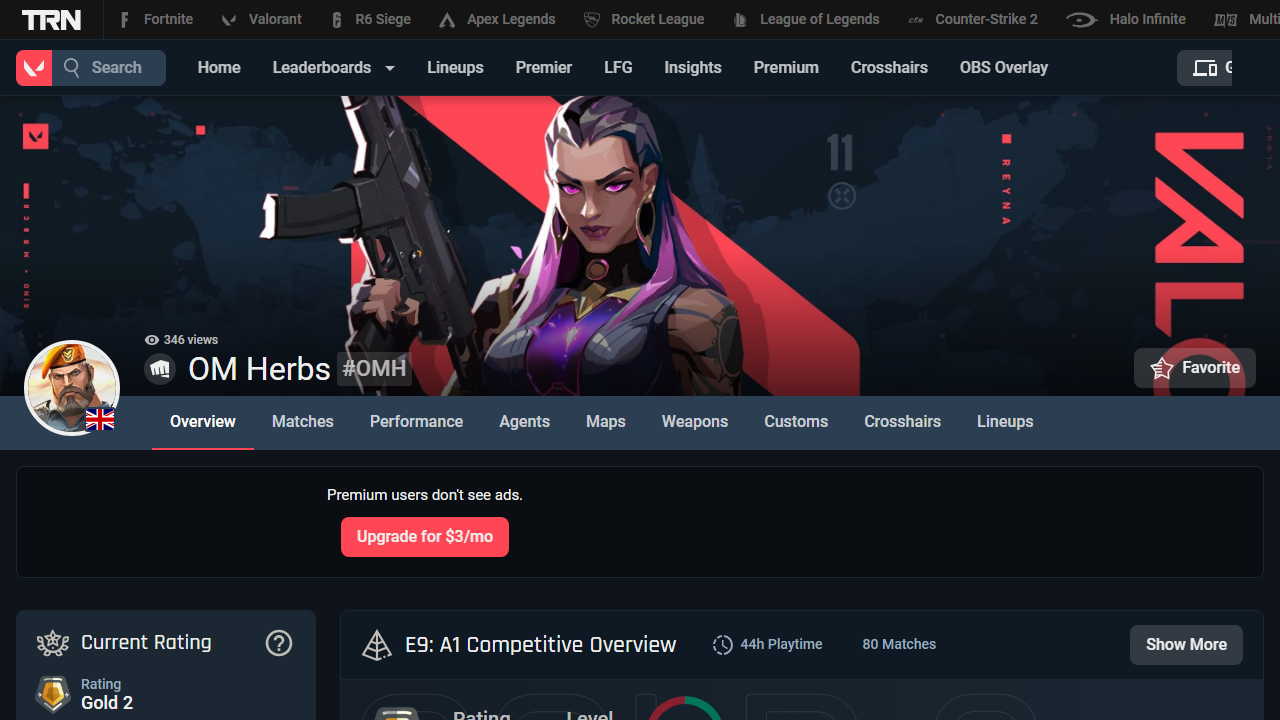
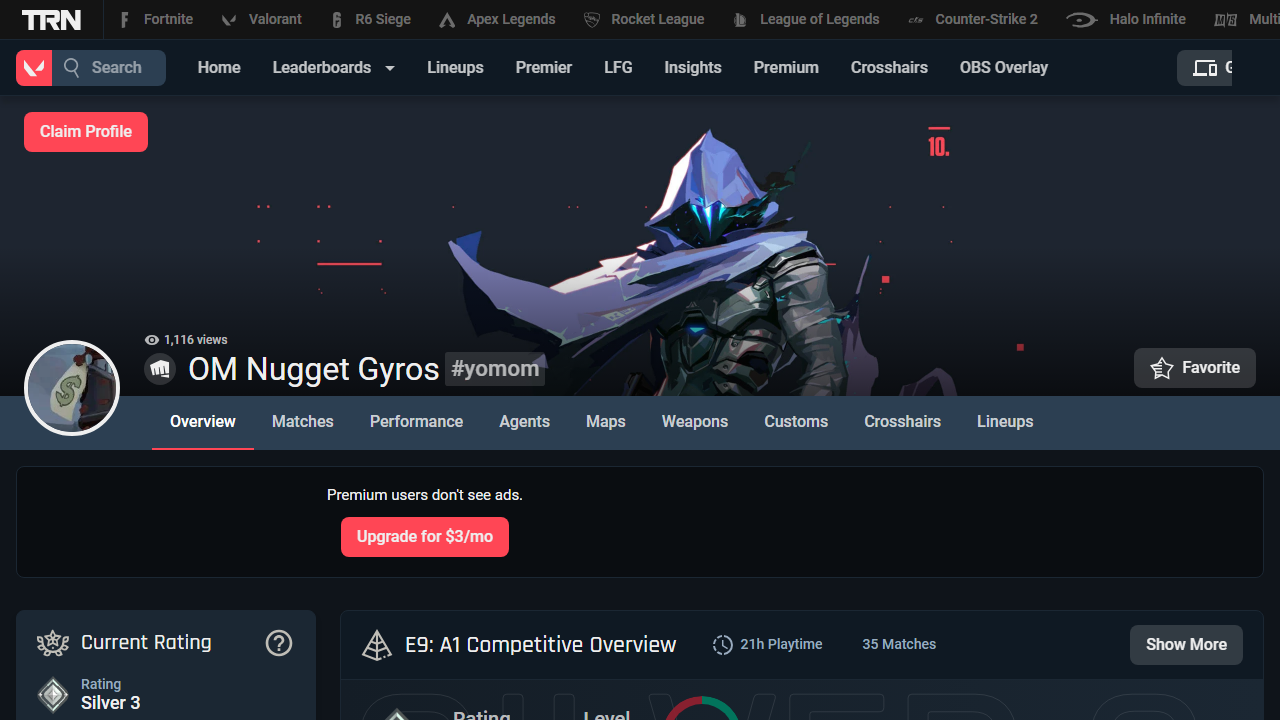
added 2 new commands (link and valstatsUser)

diff --git a/src/commands/tools/link.js b/src/commands/tools/link.js
@@ -1,0 +1,156 @@
+const { SlashCommandBuilder } = require("discord.js");
+const Config = require("../../schemas/config");
+const Link = require("../../schemas/link");
+const { MongoClient } = require("mongodb");
+const { databaseToken } = process.env;
+const mongoose = require("mongoose");
+const { chromium } = require("playwright-extra");
+const stealth = require("puppeteer-extra-plugin-stealth")();
+chromium.use(stealth);
+
+module.exports = {
+  data: new SlashCommandBuilder()
+    .setName("link")
+    .setDescription("Link your discord with your Valorant Account.")
+    .setDMPermission(false)
+    .addStringOption((option) =>
+      option
+        .setName("riotid")
+        .setDescription("Your Valorant name (Username#ID)")
+        .setRequired(true)
+    ),
+  async execute(interaction, client) {
+    const config = await Config.findOne({ guildID: interaction.guild.id });
+    if (!config) {
+      await interaction.reply({
+        content: `You haven't set up the proper channels yet! Do /config.`,
+      });
+      return;
+    }
+    if (config.botCommandsChannel) {
+      const channel = client.channels.cache.get(config.botCommandsChannel);
+      if (channel !== interaction.channel) {
+        await interaction.reply({
+          content: `You cannot use commands in this channel`,
+          ephemeral: true,
+        });
+        return;
+      }
+    }
+
+    await interaction.deferReply();
+
+    const linkedRole = interaction.guild.roles.cache.get('1277671443454230568');
+    const target = interaction.options.getString("riotid");
+    const targetInHex = target.replace(/#/g, "%23");
+    const trackerLink = `https://tracker.gg/valorant/profile/riot/${targetInHex}/overview`;
+    const mongoClient = new MongoClient(databaseToken);
+    let status;
+    let name;
+    let discriminator;
+    let nameNdiscrim;
+
+    const browser = await chromium.launch();
+    const page = await browser.newPage();
+    await page.goto(trackerLink);
+
+    await page.waitForTimeout(1000);
+
+    const elementExists = await page
+      .locator("css=li.multi-switch__item--selected span")
+      .nth(0)
+      .count();
+    let elements = await page.locator("css=span.font-light").count();
+
+    if (elements) {
+      elements = await page.locator("css=span.font-light").textContent();
+      if (elements.toLowerCase().includes("profile is private")) {
+        status = "private";
+        nameNdiscrim = elements.slice(0, -23);
+      } else {
+        console.log(elements);
+        return await interaction.editReply({
+          content: `An unknown error occurred (check terminal for more info). Please try again later.`,
+        });
+      }
+    } else if (elementExists) {
+      name = await page
+        .locator("css=span.trn-ign__username")
+        .first()
+        .textContent();
+      discriminator = await page
+        .locator("css=span.trn-ign__discriminator")
+        .first()
+        .textContent()
+        .then((d) => d.slice(1));
+      status = "public";
+    } else {
+      const error = await page.locator("h1").textContent();
+      if (error === "404") {
+        return await interaction.editReply({
+          content: `This player doesn't exist.`,
+          ephemeral: true,
+        });
+      } else {
+        console.log(error);
+        return await interaction.editReply({
+          content: `An unknown error occurred (check terminal for more info). Please try again later.`,
+        });
+      }
+    }
+    if (!nameNdiscrim) {
+      nameNdiscrim = name + discriminator;
+    }
+    //Saving to the DB
+    const existingLink = await Link.findOne({ userID: interaction.user.id });
+    if (existingLink) {
+      const myDB = mongoClient.db("test");
+      const coll = myDB.collection("riotdiscordlink");
+      const filter = { userID: interaction.user.id };
+
+      const updateDocument = {
+        $set: {
+          riotID: nameNdiscrim || name + discriminator,
+          status: status,
+        },
+      };
+      await coll.updateOne(filter, updateDocument);
+      await interaction.member.roles.add(linkedRole).catch(console.error);
+      //Replying
+      if (status === "private") {
+        await interaction.editReply({
+          content: `Your discord account has been updated and is now linked with the valorant account **${nameNdiscrim}**.` +
+          `\nWARNING! Your tracker account is private, so we cannot access any information regarding your statistics.` +
+          `\nPlease make it public by visiting ${trackerLink} and signing in to claim your account.`,
+        });
+      } else if (status === "public") {
+        await interaction.editReply({
+          content: `Your discord account has been updated and is now linked with the valorant account **${name}${discriminator}**.`,
+        });
+      }
+    } else {
+      const linkin = new Link({
+        _id: new mongoose.Types.ObjectId(),
+        userID: interaction.user.id,
+        riotID: nameNdiscrim || name + discriminator,
+        status: status,
+      });
+      await linkin.save().catch(console.error);
+      await interaction.member.roles.add(linkedRole).catch(console.error);
+      //Replying
+      if (status === "private") {
+        await interaction.editReply({
+          content: `Your discord account has been linked with the valorant account **${nameNdiscrim}**.` +
+          `\nWARNING! Your tracker account is private, so we cannot access any information regarding your statistics.` +
+          `\nPlease make it public by visiting ${trackerLink} and signing in to claim your account.`,
+        });
+      } else if (status === "public") {
+        await interaction.editReply({
+          content: `Your discord account has been linked with the valorant account **${name}${discriminator}**.`,
+        });
+      }
+    }
+
+    await browser.close();
+  },
+};

diff --git a/src/commands/tools/valstatsUser.js b/src/commands/tools/valstatsUser.js
@@ -1,19 +1,22 @@
 const { SlashCommandBuilder, EmbedBuilder } = require("discord.js");
 const Config = require("../../schemas/config");
+const Link = require("../../schemas/link");
 const { chromium } = require("playwright-extra");
 const stealth = require("puppeteer-extra-plugin-stealth")();
 chromium.use(stealth);
 
 module.exports = {
   data: new SlashCommandBuilder()
-    .setName("valstats-id")
-    .setDescription("Returns the statistics of the provided user in Valorant.")
+    .setName("valstats")
+    .setDescription(
+      "Returns the statistics of the provided Discord user in Valorant."
+    )
     .setDMPermission(false)
-    .addStringOption((option) =>
+    .addUserOption((option) =>
       option
-        .setName("target")
-        .setDescription("The riot id of the user (Username#ID)")
-        .setRequired(true)
+        .setName("user")
+        .setDescription("The member whose statistics you want.")
+        .setRequired(false)
     ),
   async execute(interaction, client) {
     const config = await Config.findOne({ guildID: interaction.guild.id });
@@ -34,7 +37,20 @@ module.exports = {
     }
 
     await interaction.deferReply();
-    const target = interaction.options.getString("target");
+    const user = interaction.options.getUser("user") || interaction.user;
+    const linkin = await Link.findOne({ userID: user.id });
+    if (!linkin) {
+      return await interaction.editReply({
+        content: `This user hasn't linked their valorant account.`,
+      });
+    }
+    if (linkin.status === "private") {
+      return await interaction.editReply({
+        content: `This user's valorant account is private.`,
+      });
+    }
+
+    const target = linkin.riotID;
     const targetInHex = target.replace(/#/g, "%23");
     const trackerLink = `https://tracker.gg/valorant/profile/riot/${targetInHex}/overview`;
 
@@ -105,17 +121,9 @@ module.exports = {
           console.log("An unknown error occurred");
         }
       } else {
-        let elements = await page.locator("css=span.font-light").textContent();
-        if (elements.toLowerCase().includes("profile is private")) {
-          await interaction.editReply({
-            content: `${target}'s profile is private, so I cannot access any information regarding this player :(`,
-          });
-          return;
-        } else {
-          await interaction.editReply({
-            content: `An unknown error occurred. Please create a support ticket with a screenshot of this error message.\ntarget=${target}`,
-          });
-        }
+        await interaction.editReply({
+          content: `An unknown error occurred. Please create a support ticket with a screenshot of this error message.\ntarget=${target}`,
+        });
       }
     }
 

diff --git a/src/schemas/link.js b/src/schemas/link.js
@@ -1,0 +1,9 @@
+const { Schema, model } = require("mongoose");
+const linkSchema = new Schema({
+  _id: Schema.Types.ObjectId,
+  userID: String,
+  riotID: String,
+  status: String,
+});
+
+module.exports = model("Link", linkSchema, "riotdiscordlink");
